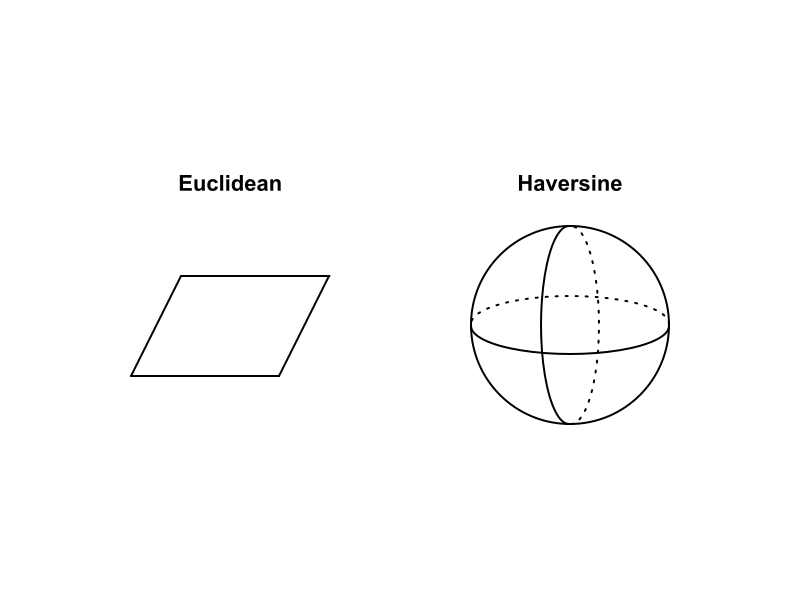
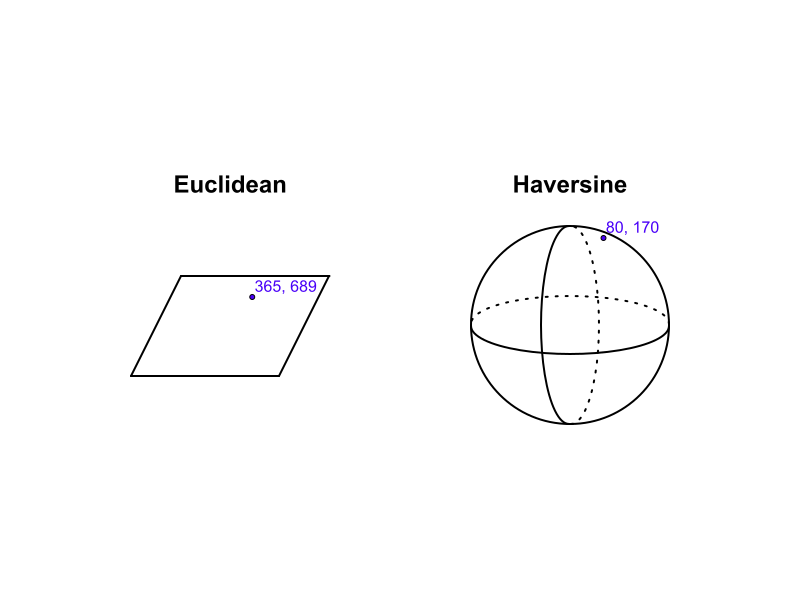
informs presentations v6

diff --git a/events/2025-10-29-Informs_VRP_in_reality.html b/events/2025-10-29-Informs_VRP_in_reality.html
@@ -227,20 +227,65 @@ NODE_COORD_SECTION
 7	812	228
 8	643	90
 ...</pre>
-            <p class="fragment highlight">No latitude and longitude?</p>
+            <p class="fragment">Where is <code>365, 689</code>?</p>
         </section>
         <section>
-            <h2>Euclidean = flat surface</h2>
+            <h3>Where is <code>365, 689</code>?</h3>
+            <figure>
+                <img src="../src/content/static/vehicle-routing/academic/latitude-80-longitude-170.png">
+                <p class="fragment">Just keep going north</p>
+            </figure>
+        </section>
+        <section>
+            <h2>Not real</h2>
+        </section>
+        <section>
+            <h2>No latitude and longitude</h2>
+        </section>
+        <section>
+            <h2>Flat surface</h2>
+        </section>
+        <section>
+            <img src="../src/content/static/vehicle-routing/academic/euclidean-versus-haversine_0.png" class="fullImage">
+            <img src="../src/content/static/vehicle-routing/academic/euclidean-versus-haversine_1.png" class="fullImage fragment">
+        </section>
+        <section>
+            <h2>Why?</h2>
         </section>
         <section>
             <img src="../src/content/static/vehicle-routing/academic/flat_earth.png" class="">
         </section>
         <section>
-            <h2>Haversine = sphere</h2>
+            <img src="../src/content/static/vehicle-routing/academic/euclidean-versus-haversine_1.png" class="fullImage">
+            <img src="../src/content/static/vehicle-routing/academic/euclidean-versus-haversine_2.png" class="fullImage fragment">
+            <img src="../src/content/static/vehicle-routing/academic/euclidean-versus-haversine_3.png" class="fullImage fragment">
+        </section>
+        <section>
+            <h3>Reality dataset</h3>
+            <pre xml:space="preserve">vehicles: [
+  {
+    id: "Vehicle 1",
+    startLocation: [<span class="highlight">50.8427501</span>, <span class="highlight">4.3515499</span>],
+    ...
+  },
+  {
+    id: "Vehicle 2",
+    startLocation: [50.8427501, 4.3515499],
+    ...
+  },
+  ...
+],
+visits: [
+  {id:"Visit 1", location: [<span class="highlight">49.6096472</span>, <span class="highlight">5.8560275</span>], ...},
+  {id:"Visit 2", location: [50.4812987, 5.5198048], ...},
+  ...
+]</pre></section>
+        <section>
+            <h2>Haversine</h2>
             <p class="fragment">as the crow flies...</p>
         </section>
         <section>
-            <img src="../src/content/static/vehicle-routing/academic/euclidean-versus-haversine.png" class="fullImage">
+            <h2>Vehicles don't fly</h2>
         </section>
 
         <section>
@@ -284,15 +329,18 @@ NODE_COORD_SECTION
             <img src="../src/content/timefold-field-service-routing/visit-service-constraints/visit-time-windows/visit-time-windows-the-wait-time-paradox_3.svg" class="fullImage fragment">
         </section>
         <section>
-            <h2>In reality</h2>
-        </section>
-        <section>
             <h2>Multi-day planning</h2>
         </section>
         <section>
-            <img src="../src/content/timefold-field-service-routing/visit-service-constraints/visit-time-windows/visit-multiple-time-windows_0.svg" class="fullImage">
-            <img src="../src/content/timefold-field-service-routing/visit-service-constraints/visit-time-windows/visit-multiple-time-windows_1.svg" class="fullImage fragment">
+            <img src="../src/content/timefold-field-service-routing/introduction/field-service-routing-time-view_0.svg" class="fullImage">
+            <img src="../src/content/timefold-field-service-routing/introduction/field-service-routing-time-view_1.svg" class="fullImage fragment">
+            <img src="../src/content/timefold-field-service-routing/introduction/field-service-routing-time-view_2.svg" class="fullImage fragment">
         </section>
+        <!-- TODO FIXME -->
+<!--        <section>-->
+<!--            <img src="../src/content/timefold-field-service-routing/visit-service-constraints/visit-time-windows/visit-multiple-time-windows_0.svg" class="fullImage">-->
+<!--            <img src="../src/content/timefold-field-service-routing/visit-service-constraints/visit-time-windows/visit-multiple-time-windows_1.svg" class="fullImage fragment">-->
+<!--        </section>-->
         <section>
             <h3>VRPTW dataset</h3>
             <pre xml:space="preserve">C101
@@ -358,7 +406,7 @@ CUST NO.  ... READY TIME  DUE DATE   SERVICE   TIME
   ...
 ],
 visits: [
-  {id:"Visit 1", ... serviceDuration: "PT<span class="highlight">5M</span>"}, <span class="fragment highlight">// 5 minutes</span>
+  {id:"Visit 1", ..., serviceDuration: "PT<span class="highlight">5M</span>"}, <span class="fragment highlight">// 5 minutes</span>
   {id:"Visit 2", ..., serviceDuration: "PT7M"},
   ...
 ]</pre></section>

diff --git a/events/2025-06-24-Webinar_Vehicle_Routing_Problems_in_production.html b/events/2025-06-24-Webinar_Vehicle_Routing_Problems_in_production.html
@@ -406,7 +406,7 @@ CUST NO.  ... READY TIME  DUE DATE   SERVICE   TIME
   ...
 ],
 visits: [
-  {id:"Visit 1", ... serviceDuration: "PT<span class="highlight">5M</span>"}, <span class="fragment highlight">// 5 minutes</span>
+  {id:"Visit 1", ..., serviceDuration: "PT<span class="highlight">5M</span>"}, <span class="fragment highlight">// 5 minutes</span>
   {id:"Visit 2", ..., serviceDuration: "PT7M"},
   ...
 ]</pre></section>
